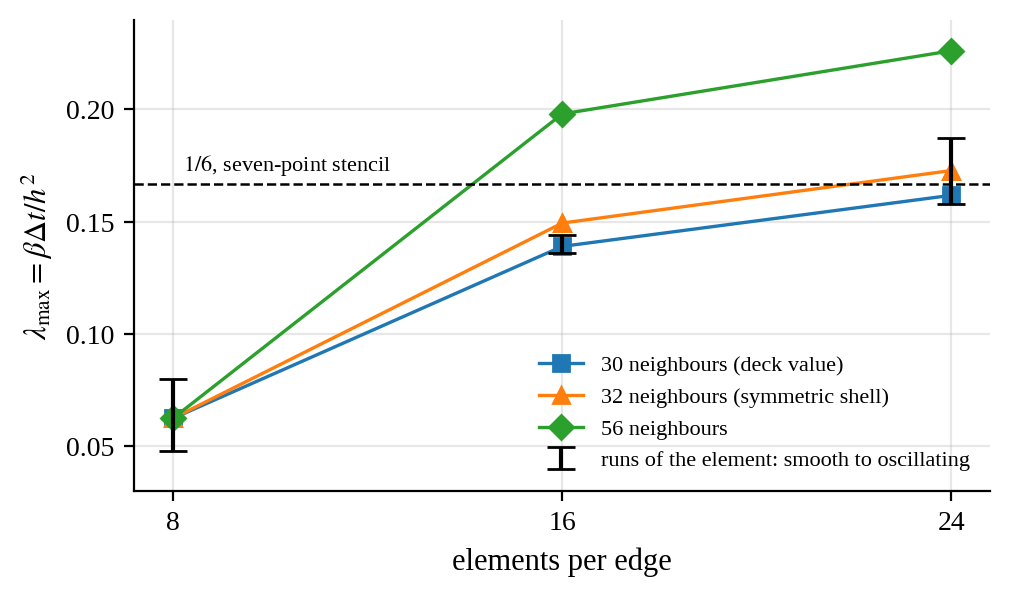
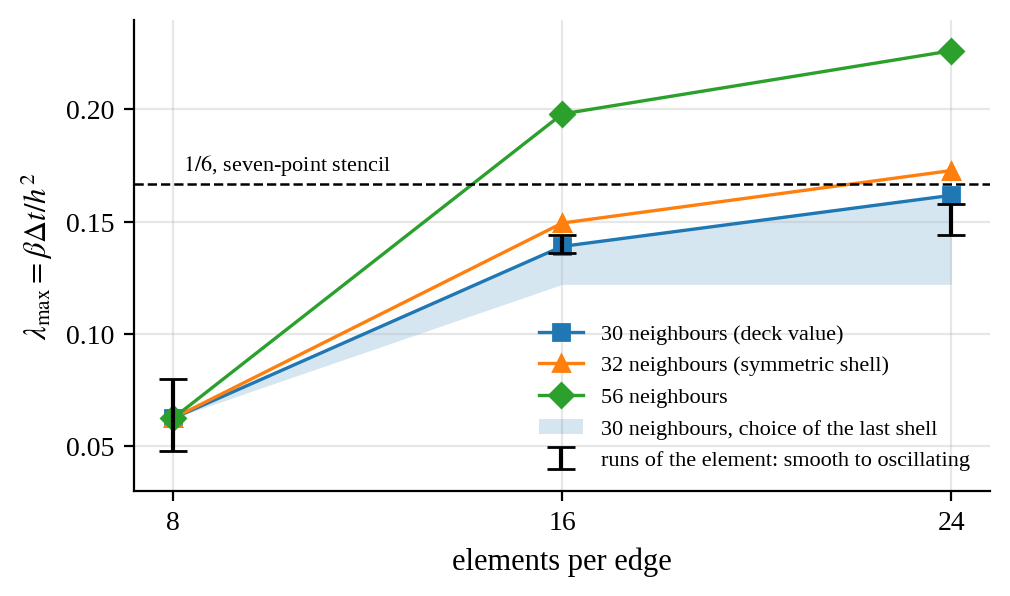
Appendix D: the stability limit depends on the choice of neighbours in the last shell
The 24^3 run at lambda 0.158 stopped before T* = 5, below the computed
0.162. The 30th neighbour lies in a shell of seven equidistant points of
which the fit takes five, chosen by the element's sort order; over 40 random
choices the limit is 0.062 on 8^3, 0.122-0.140 on 16^3 and 0.122-0.162 on
24^3. All runs to T* = 5 lie within this band. nem_stability.py samples the
choice and draws the band; Appendix D, the ch4 time-step paragraph (with the
24^3 run at dt 0.05, lambda 0.144, named), the deck, notes and Q&A updated.
IKMHIWI03 asked for two 24^3 runs to T* = 5 at lambda 0.115 and 0.130.

Changed region(s): [[0.2762, 0.2114, 0.9515, 0.6342], [0.5218, 0.5436, 0.9208, 0.755], [0.2149, 0.6342, 0.2762, 0.6946]]

diff --git a/thesis/chapters/appendix_stability.tex b/thesis/chapters/appendix_stability.tex
@@ -34,7 +34,7 @@ periodic with the period $h$ of the mesh with eight points per cell.
 \paragraph{Spectral radius.} I computed the stencil of the WLS fit on this
 lattice with the deck values and formed the $8\times8$ Bloch symbol
 $\hat L(\mathbf k)$ of $L$ over the Brillouin zone of the cell lattice; $\rho$
-is the largest modulus of its eigenvalues over $\mathbf k$. Two points
+is the largest modulus of its eigenvalues over $\mathbf k$. Three points
 follow from the result (Table~\ref{tab:app-stability}).
 
 First, the limit of the NEM stencil differs from $1/6$ even without the
@@ -45,10 +45,19 @@ Second, the weighting makes the limit depend on the mesh. Because
 $\beta^*$ is a length in millimetres, the weight of a neighbour at distance
 $d$ depends on $d/\beta^*$, and on a coarse mesh the fit is dominated by the
 few nearest points, which gives a stencil with large coefficients and a small
-$\lambda_{\max}$: about $0.06$ on $8^3$ elements, $0.14$ to $0.15$ on $16^3$
-and $0.16$ to $0.17$ on $24^3$ (the two values are for $N=30$ and for the
-symmetric set of $32$ neighbours, between which the distance ordering of the
-element does not decide). The limit approaches the unweighted value as the
+$\lambda_{\max}$: $0.062$ on $8^3$ elements, $0.139$ on $16^3$ and $0.162$ on
+$24^3$ for one choice of $30$ neighbours, $0.149$ and $0.173$ for the symmetric
+set of $32$.
+
+Third, the choice of the neighbours matters. The $30$th neighbour lies in a
+shell of seven points at the distance $h$, of which the fit takes five; which
+five follows from the sort order inside the element and cannot be read off
+the deck. Over $40$ random choices of the five, the limit stays at $0.062$ on
+$8^3$, where the weight of that shell is negligible, but lies between $0.122$
+and $0.140$ on $16^3$ and between $0.122$ and $0.162$ on $24^3$ (shaded in
+Figure~\ref{fig:app-stability}). On the finite cube, with the neighbours taken
+in the order of a $k$-d tree, the limit is $0.143$ on both meshes.
+The limit approaches the unweighted value as the
 mesh is refined. A direct time stepping of the stencil on a periodic block of
 elements grows by the factor $|1-2\lambda/\lambda_{\max}|$ per step, as the
 analysis predicts.
@@ -59,19 +68,19 @@ analysis predicts.
   \caption[Stability limit of the NEM stencil against the mesh]{Stability
     limit of the explicit field update from the Bloch analysis, against the
     number of elements per edge, for $30$, $32$ and $56$ neighbours with
-    $\beta^*=0.2$~mm; bars: the runs of the element, from the largest smooth
-    to the smallest oscillating or stopped $\lambda$
-    (Figure~\ref{fig:ch5-stability}); on $8^3$ and $16^3$ the runs to $T^*=5$.}
+    $\beta^*=0.2$~mm; shaded: the range over the choice of five of the seven
+    equidistant points of the last shell for $30$ neighbours; bars: the runs
+    of the element to $T^*=5$, from the largest smooth to the smallest
+    stopped $\lambda$ (on $24^3$ the lower end is a run to $T^*=1.1$).}
   \label{fig:app-stability}
 \end{figure}
 
-\paragraph{Comparison with the runs.} The runs of the element bracket the
-limit at $0.136<\lambda_{\max}<0.144$ on $16^3$ (runs to $T^*=5$; the runs
-to $T^*=1.1$ give $0.128<\lambda_{\max}<0.160$) and at
-$0.158<\lambda_{\max}<0.187$ on $24^3$ (Figure~\ref{fig:ch5-stability}), in
-agreement with the computed values $0.139$ to $0.149$ and $0.162$ to $0.173$. The unstable mode on these meshes is
-the alternation of sign between neighbouring points, which is what the
-oscillating runs show in $\alpha-1$.
+\paragraph{Comparison with the runs.} Runs to $T^*=5$ bracket the limit at
+$0.048<\lambda_{\max}<0.080$ on $8^3$ and $0.136<\lambda_{\max}<0.144$ on
+$16^3$, and on $24^3$ the run at $0.158$ stops; all three agree with the
+computed values, on $16^3$ and $24^3$ within the band of the neighbour choice.
+The unstable mode is the alternation of sign between neighbouring points,
+which is what the failing runs show in $\alpha-1$.
 
 On $8^3$ the runs at $\beta=0.1$~mm$^2/T^*$ to $T^*=1.1$ stay smooth up to
 $\lambda=0.088$ and stop at $0.096$, above the computed limit of $0.062$. The
@@ -88,27 +97,31 @@ I therefore predicted that longer runs show the limit, and two runs to
 $T^*=5$ confirm it: at $\lambda=0.080$ the elements collapse at $T^*=1.65$,
 at $\lambda=0.048$ the run stays smooth to the end. The limit on $8^3$ lies
 between $0.048$ and $0.080$, in agreement with $0.062$. A run judged stable
-must therefore be long enough for the unstable mode to grow. On $16^3$ two
-runs to $T^*=5$ narrow the bracket to $0.136$ to $0.144$ around the computed
-$0.139$; on $24^3$ the runs to $T^*=1.1$ already agree with the computed limit.
+must therefore be long enough for the unstable mode to grow. The same holds
+on $24^3$, where the run at $\lambda=0.158$ is smooth to $T^*=1.1$ and stops
+before $T^*=5$; marching the seed problem with the finite-cube operator gives
+the same picture, with $\alpha-1$ turning negative at $T^*=1.04$ for
+$\lambda=0.158$ and at $T^*=1.56$ for $0.150$.
 
 \begin{table}[htbp]
   \centering
   \caption[Stability limit of the NEM stencil]{Stability limit
     $\lambda_{\max}=\beta\Delta t/h^2$ of the explicit update with the NEM
     stencil on the integration-point lattice, from the Bloch analysis;
-    $\beta^*=0.2$~mm as in the element, and the unweighted limit. Last row:
-    the largest smooth and the smallest oscillating or stopped $\lambda$ of the
-    runs; $^{a}$runs to $T^*=5$, the others to $T^*=1.1$ (see the text).}
+    $\beta^*=0.2$~mm as in the element, and the unweighted limit; second
+    row: the range over the choice of the neighbours in the last shell. Last
+    row: the largest smooth and the smallest stopped $\lambda$ of the runs to
+    $T^*=5$.}
   \label{tab:app-stability}
   \small
   \begin{tabular}{lcccc}
     \toprule
     & $8^3$ & $16^3$ & $24^3$ & $\beta^*\to\infty$ \\
     \midrule
-    $N=30$ neighbours & $0.062$ & $0.139$ & $0.162$ & $0.185$ \\
+    $N=30$, one choice & $0.062$ & $0.139$ & $0.162$ & $0.185$ \\
+    $N=30$, range over the choice & $0.062$ & $0.122$--$0.140$ & $0.122$--$0.162$ & \\
     $N=32$ neighbours & $0.062$ & $0.149$ & $0.173$ & $0.180$ \\
-    runs: smooth / failing & $0.048$ / $0.080^{a}$ & $0.136$ / $0.144^{a}$ & $0.158$ / $0.187$ & \\
+    runs to $T^*=5$: smooth / stopped & $0.048$ / $0.080$ & $0.136$ / $0.144$ & -- / $0.158$ & \\
     \bottomrule
   \end{tabular}
 \end{table}

diff --git a/ansys_usermat/apdl/nem_stability.py b/ansys_usermat/apdl/nem_stability.py
@@ -78,6 +78,37 @@ def wls_stencil(x0, pts, nneigh, beta_star, threshold, tie="symmetric"):
     return D, c, w
 
 
+def shell_samples(h, nneigh=30, beta_star=0.2, threshold=1e-8, ntrial=40, nk=10, seed=0):
+    """The nneigh-th neighbour lies in a shell of equidistant points (7 at distance h
+    for N = 30), of which the element takes some by its own sort order. Returns the
+    stability limits for ntrial random choices of that subset, with the shell data."""
+    pts = lattice_points(h, 3)
+    x0 = np.array([OFF[0] * h] * 3)
+    d = pts - x0
+    r = np.linalg.norm(d, axis=1)
+    order = np.argsort(r, kind="stable")
+    order = order[r[order] > 1e-12 * max(1.0, r.max())]
+    rk = r[order[nneigh - 1]]
+    shell = order[np.abs(r[order] - rk) < 1e-9 * max(1.0, rk)]
+    inside = order[r[order] < rk * (1 - 1e-9)]
+    k = nneigh - len(inside)
+    rng = np.random.default_rng(seed)
+    lams = []
+    for _ in range(ntrial):
+        sel = np.concatenate([inside, rng.choice(shell, k, replace=False)])
+        D = d[sel]
+        w = np.exp(-0.5 * (4.0 * np.linalg.norm(D, axis=1) / beta_star) ** 2)
+        w[w <= threshold] = 0.0
+        dx, dy, dz = D.T
+        A = np.column_stack([0.5 * dx**2, 0.5 * dy**2, 0.5 * dz**2, dx * dy, dx * dz, dy * dz, dx, dy, dz])
+        Dm = np.linalg.solve(A.T @ (w[:, None] * A), A.T * w)
+        c = Dm[0] + Dm[1] + Dm[2]
+        rho, _ = bloch_radius(h, D, c, nk)
+        lams.append(2.0 / (rho * h * h))
+    return dict(shell_radius=float(rk), shell_size=int(len(shell)), taken=int(k),
+                inside=int(len(inside)), lam=sorted(float(v) for v in lams))
+
+
 def bloch_radius(h, D, c, nk=24):
     """Spectral radius of the NEM Laplacian on the infinite lattice.
     The eight points of a cell are mirror images; the stencil of the reference
@@ -157,7 +188,7 @@ def main(argv=None):
     a = ap.parse_args(argv)
     if a.fig_only:
         out = json.loads(a.json.read_text())
-        draw(out["cases"], a.fig)
+        draw(out["cases"], a.fig, out.get("shells"))
         return
 
     cases = []
@@ -175,6 +206,13 @@ def main(argv=None):
                                   k_worst=(np.array(kw) * h / np.pi).round(3).tolist()))
                 print(f"{n:3d}^3 h={h:.4f} n={len(c):2d} {tie:9s} beta*={beta_star:<6g} "
                       f"lambda_max = {lam:.4f}  (k h/pi = {np.round(np.array(kw)*h/np.pi,2)})")
+    # the choice among the equidistant points of the last shell (N = 30 takes 5 of 7)
+    shells = {}
+    for n, h in meshes:
+        sh = shell_samples(h, 30, 0.2, 1e-8, 40, max(8, a.nk // 2))
+        shells[n] = sh
+        print(f"{n:3d}^3 shell at {sh['shell_radius']:.4f} mm: {sh['taken']} of {sh['shell_size']} taken; "
+              f"lambda_max over {len(sh['lam'])} choices: {sh['lam'][0]:.3f} .. {sh['lam'][-1]:.3f}")
     # reference: 7-point stencil on a simple cubic lattice
     print("7-point finite differences: lambda_max = 1/6 =", 1 / 6)
 
@@ -194,17 +232,18 @@ def main(argv=None):
             print(f"  {n:3d}^3  lambda = {f:.2f} lambda_max = {f*lam:.4f}: growth {g:.4f}")
         checks.append(row)
 
-    out = dict(cases=cases, march=checks,
+    out = dict(cases=cases, march=checks, shells={str(k): v for k, v in shells.items()},
                note="lambda = beta dt / h^2; explicit Euler stable iff lambda <= lambda_max")
     if a.json:
         a.json.write_text(json.dumps(out, indent=1))
         print("wrote", a.json)
     if a.fig:
-        draw(cases, a.fig)
+        draw(cases, a.fig, {str(k): v for k, v in shells.items()})
 
 
-def draw(cases, fig_path):
-    """lambda_max against the mesh for the deck weighting, with the brackets of the runs."""
+def draw(cases, fig_path, shells=None):
+    """lambda_max against the mesh for the deck weighting, with the brackets of the runs;
+    shaded: the range over the choice of the equidistant points of the last shell."""
     import matplotlib
     matplotlib.use("Agg")
     import matplotlib.pyplot as plt
@@ -218,10 +257,15 @@ def draw(cases, fig_path):
         ys = [cs["lam_max"] for cs in cases if cs["nneigh"] == nn and cs["beta_star"] == 0.2]
         if xs:
             ax.plot(xs, ys, marker=mk, label=lab, lw=1.2)
+    if shells:
+        ms = sorted(int(k) for k in shells)
+        lo = [shells[str(m)]["lam"][0] for m in ms]
+        hi = [shells[str(m)]["lam"][-1] for m in ms]
+        ax.fill_between(ms, lo, hi, color="C0", alpha=0.18, lw=0, label="30 neighbours, choice of the last shell")
     ax.axhline(1 / 6, color="k", ls="--", lw=0.9)
     ax.text(8.2, 1 / 6 + 0.003, r"$1/6$, seven-point stencil", fontsize=8, va="bottom")
     # brackets of the element's runs: largest smooth and smallest oscillating lambda
-    runs = {8: (0.048, 0.080), 16: (0.136, 0.144), 24: (0.158, 0.187)}   # 8^3 and 16^3: runs to T* = 5 (Appendix D)
+    runs = {8: (0.048, 0.080), 16: (0.136, 0.144), 24: (0.144, 0.158)}   # runs to T* = 5; 24^3 lower end: smooth to T* = 1.1 (Appendix D)
     first = True
     for m, (lo, hi) in runs.items():
         if hi is None:

diff --git a/speaker_notes_defense.tex b/speaker_notes_defense.tex
@@ -159,13 +159,13 @@ one point three on $16^3$ and zero point seven on $24^3$, so the error is
 measured, not estimated. The seed stress on $24^3$ is two percent below its
 converged value, from a separate hexahedral code on meshes up to $48^3$. And
 the explicit field update is stable only up to $\beta\Delta t/h^2$ of about
-0.06 on the coarse mesh and 0.16 on the fine one, which I derived and
-confirmed by runs; this is stricter than the condition in the literature.
+0.06 on the coarse mesh and 0.12 to 0.16 on the finer ones, which I derived
+and confirmed by runs; this is stricter than the condition in the literature.
 All runs in the thesis are below it.
 \JA 時間は1次で、今の刻みの誤差は約 1 \%。空間は、同じ問題を有限体積で $192^3$ まで解いた参照解と
 比べ、要素の $\alpha$ の誤差は $8^3$ で 4 \%、$16^3$ で 1.3 \%、$24^3$ で 0.7 \%（推定ではなく実測）。
 シードの応力は $24^3$ で収束値より約 2 \% 低い（別の hex8 コードで $48^3$ まで）。陽解法の安定の境目は
-粗いメッシュで 0.06、細かいメッシュで 0.16 と導き、実行で確かめた。文献の条件より厳しい。修論の実行はすべてその下。
+粗いメッシュで 0.06、細かいメッシュで 0.12〜0.16 と導き、実行で確かめた。文献の条件より厳しい。修論の実行はすべてその下。
 
 \slide{Part 3: species composition at the Gauss points}{15:00}
 \EN The third part puts the composition at every Gauss point, for two species
@@ -234,8 +234,8 @@ Short answers; open the slide, say the first sentence, then point to the number.
 \JA 1サブステップでは、要素が $\phi$ を更新し、各 Gauss 点で $\alpha$ と応力を更新し、2菌種なら点モデルを局所の量に合わせて $s\,\Delta t$ だけ進めます。
 
 \slide{Appendix D: stability of the explicit field update}{Q}
-\EN The condition of Rudolf et al.\ is the one-dimensional one, one half. I derived the limit of the NEM stencil on the lattice of the integration points by a Bloch analysis: the weight of the fit has a fixed width in millimetres, so the limit depends on the mesh, about 0.06 on eight cubed, 0.14 to 0.15 on sixteen cubed and 0.16 to 0.17 on twenty-four cubed. Runs on every mesh bracket these values; on eight cubed the run had to be five times longer, because the unstable mode starts very small.
-\JA Rudolf らの条件は1次元のもので 1/2 です。積分点の格子の上で NEM の stencil の限界を Bloch 解析で導きました。重みの幅が mm で固定なので限界はメッシュに依存し、8³ で約 0.06、16³ で 0.14〜0.15、24³ で 0.16〜0.17。どのメッシュでも実行がこの値をはさんでいます。8³ では不安定なモードの初期値が小さいので、5 倍長く回して確かめました。
+\EN The condition of Rudolf et al.\ is the one-dimensional one, one half. I derived the limit of the NEM stencil on the lattice of the integration points by a Bloch analysis: the weight of the fit has a fixed width in millimetres, so the limit depends on the mesh, about 0.06 on eight cubed and 0.12 to 0.16 on the finer meshes; the range comes from which equidistant points enter the thirty neighbours, which the element's sort order decides. Runs to five times the usual end time confirm it; shorter runs do not show the instability, because the unstable mode starts very small.
+\JA Rudolf らの条件は1次元のもので 1/2 です。積分点の格子の上で NEM の stencil の限界を Bloch 解析で導きました。重みの幅が mm で固定なので限界はメッシュに依存し、8³ で約 0.06、細かいメッシュで 0.12〜0.16。幅があるのは、30 近傍に等距離の点のどれが入るかを要素の並べ替えの順が決めるためです。5 倍長く回した実行で確かめました。短い実行では不安定なモードの初期値が小さく、壊れません。
 \hint{Junker 先生向け。修論の付録 D。「観測」ではなく「導出して一致した」と言う。}
 
 \slide{Backup 1: stationarity conditions}{Q}

diff --git a/thesis/chapters/ch4_ansys.tex b/thesis/chapters/ch4_ansys.tex
@@ -309,21 +309,22 @@ least-squares sense, the Neighbored Element Method
 explicitly, which limits the time step. Rudolf et al.~\cite{Rudolf2025NEM}
 give $\Delta t\le h^2/(2\beta)$ for the element size $h$, which is the limit of
 the three-point stencil in one dimension; the seven-point stencil in three
-dimensions has $\lambda=\beta\Delta t/h^2\le1/6$. The runs of this element
-stayed smooth up to $\lambda=0.136$ on $16^3$ and $0.158$ on $24^3$ elements
-and failed at $0.144$ and $0.187$ (Figure~\ref{fig:ch5-stability}; the $16^3$
-pair are runs to $T^*=5$). A
-Bloch analysis of the NEM stencil on the lattice of the integration points
-(Appendix~\ref{app:stability}) gives the limit: it is $0.18$ for the
-unweighted fit, because the lattice is not uniform, and the Gaussian weight
-of the fit, whose width $\beta^*=0.2$~mm is fixed in millimetres, lowers it on
-coarse meshes to $0.14$ to $0.15$ on $16^3$ and $0.16$ to $0.17$ on $24^3$,
-within the brackets of the runs, and to about $0.06$ on $8^3$, where runs
-to $T^*=5$ stay smooth at $\lambda=0.048$ and stop at $0.080$. Runs to
-$T^*=1.1$ are too short to show the limit on $8^3$ (Appendix~\ref{app:stability}). Every run in
-this chapter has $\lambda\le0.128$ on $16^3$ and finer meshes and
-$\lambda\le0.04$ on $8^3$ (the $16^3$ run at $\beta=0.1$ uses
-$\Delta t=0.0125$).
+dimensions has $\lambda=\beta\Delta t/h^2\le1/6$. A Bloch analysis of the
+NEM stencil on the lattice of the integration points
+(Appendix~\ref{app:stability}) gives the limit of this element: $0.18$ for the
+unweighted fit, because the lattice is not uniform, and lower on coarse
+meshes, because the width $\beta^*=0.2$~mm of the Gaussian weight is fixed in
+millimetres. On $16^3$ and $24^3$ the limit also depends on which points of
+the last, equidistant shell enter the fit of $30$ neighbours, and lies
+between $0.122$ and $0.140$ on $16^3$ and between $0.122$ and $0.162$ on
+$24^3$; on $8^3$ it is $0.062$. Runs to $T^*=5$ confirm this: on $8^3$ they
+stay smooth at $\lambda=0.048$ and stop at $0.080$, on $16^3$ at $0.136$ and
+$0.144$, and on $24^3$ the run at $0.158$ stops (Figure~\ref{fig:ch5-stability}).
+Runs to $T^*=1.1$ are too short to show an instability near the limit. The
+results of this chapter use $\lambda\le0.128$ on $16^3$, $\lambda\le0.072$
+on $24^3$ and $\lambda\le0.04$ on $8^3$, below the band; the only exception
+is the $24^3$ run at $\Delta t=0.05$ ($\lambda=0.144$) in the time-step series
+below, whose seed growth follows the first-order trend of the other steps.
 
 \begin{figure}[htbp]
   \centering

diff --git a/slides_defense.tex b/slides_defense.tex
@@ -250,7 +250,7 @@ $\alpha-1$ in the seed & $8.9\times10^{-4}$\\
 \factbox{p2}{Element size $h$ [mm]}{error of $\alpha-1$ against a reference solution: $4.1$ / $1.3$ / $0.7\,\%$ on $8^3$ / $16^3$ / $24^3$; seed stress on $24^3$: $2\,\%$}
 \end{column}
 \begin{column}{0.32\textwidth}
-\factbox{p2}{Stability}{NEM limit derived (Bloch): $0.06$ / $0.14$ / $0.16$ on $8^3$ / $16^3$ / $24^3$, confirmed by runs; Rudolf et al.\ 2025: 1-D value $0.5$}
+\factbox{p2}{Stability}{NEM limit derived (Bloch): $0.06$ on $8^3$, $0.12$--$0.16$ on $16^3$, $24^3$; confirmed by runs; Rudolf et al.\ 2025: 1-D value $0.5$}
 \end{column}
 \end{columns}
 \takeaway{The error of the growth field is measured against a reference solution, the seed stress is $2\,\%$ from its converged value, and every run lies within the derived stability limit.}
@@ -466,10 +466,10 @@ implicit Euler and Newton, $\Delta t=10^{-4}$.\\[4pt]
 \small $\lambda=\beta\Delta t/h^2$; grey: the limit from a Bloch analysis of the NEM
 stencil on the integration-point lattice (thesis, Appendix~D). $h^2/(2\Delta t)\ge\beta$ of
 Rudolf et al.\ 2025 is the one-dimensional limit ($1/2$); the seven-point stencil gives $1/6$;
-the NEM fit with its weight width $\beta^*=0.2$~mm fixed in millimetres gives $0.06$ on $8^3$,
-$0.14$--$0.15$ on $16^3$ and $0.16$--$0.17$ on $24^3$, which the runs bracket. On $8^3$ a run to
-$T^*=1.1$ is too short for the unstable mode to show; runs to $T^*=5$ (black edge) give $0.048$
-smooth and $0.080$ failing.
+the NEM fit with its weight width $\beta^*=0.2$~mm fixed in millimetres gives $0.06$ on $8^3$
+and, depending on which equidistant points enter the 30 neighbours, $0.12$--$0.14$ on $16^3$ and
+$0.12$--$0.16$ on $24^3$. Runs to $T^*=5$ (black edge) confirm it; runs to $T^*=1.1$ are too short
+to show an instability near the limit.
 \end{frame}
 
 % ========================================================

diff --git a/slides_qa_ja.tex b/slides_qa_ja.tex
@@ -115,10 +115,11 @@ FEM の記述が、1菌種と2菌種でつながった。}
 \begin{frame}[shrink=3]{Junker 先生（3）：NEM と時間刻み}
 \small\Q{場の更新は陽解法。時間刻みの条件は}
 \A{Rudolf et al.\ 2025 の $\Delta t\le h^2/(2\beta)$ は\textbf{1次元の条件}（$\lambda\le1/2$）。
-積分点の格子で NEM の stencil を Bloch 解析すると、限界はメッシュに依存：\textbf{8$^3$ で 0.06、16$^3$ で 0.14〜0.15、24$^3$ で 0.16〜0.17}（付録 D）。実行はどのメッシュでもこれをはさむ（8$^3$ は $T^*=5$ まで回して 0.048 滑らか、0.080 停止）。}
+積分点の格子で NEM の stencil を Bloch 解析すると、限界はメッシュに依存：\textbf{8$^3$ で 0.06、16$^3$・24$^3$ で 0.12〜0.16}（付録 D）。幅は 30 近傍の最後の等距離の殻のどの点を取るかによる。$T^*=5$ までの実行で確かめた。}
 \begin{itemize}\footnotesize
   \item 理由：重み $\exp[-\frac12(4d/\beta^*)^2]$ の幅 $\beta^*=0.2$\,mm が固定なので、粗いメッシュほど近い点だけで当てはめ、係数が大きくなる
   \item 重みなしの極限は 0.18（格子が不等間隔なので 7点差分の 1/6 と同じにならない）
+  \item 30 番目の近傍は距離 $h$ の 7 点の殻にあり、そのうち 5 点を取る。どれを取るかは要素の並べ替えの順で、デッキからは分からない
   \item 「最後まで走った」は安定の判定にならない（0.160 は止まらずに振動した。8$^3$ では $T^*=1.1$ では見えず、$T^*=5$ で壊れた）
 \end{itemize}
 \vspace{3pt}

diff --git a/ansys_usermat/apdl/RUN_WP3_IKMHIWI03.md b/ansys_usermat/apdl/RUN_WP3_IKMHIWI03.md
@@ -349,3 +349,20 @@ f = 1e−3、ν = 0.49、三隅の拘束）で力学を解いた（`results/2026
 ```
 
 指示の 6 番（`wp3e_n16_b01_dt00125`）は、同じ条件の `w16_1sp_b01_dt00125`（表面を直した exe、`2026-10-07_surface_fix/`）があるので省いた。10 本、見込み約 30 時間。
+
+### 24³ の T* = 5（10月10日、クラウド）：限界は「30 近傍の最後の殻をどう取るか」で幅がある
+
+週末の列の 24³・λ 0.158 と 0.164（T* = 5）は両方止まった。0.158 は T* = 1.1 では滑らかだった。
+原因を調べた（`nem_stability.py` の `shell_samples`、`nem_finite_cube.py`）：
+
+- 30 番目の近傍は、距離 h の **7 点の殻の中**にある（25 点がそれより近く、殻から 5 点を取る）。
+  どの 5 点を取るかは要素の並べ替えの順で決まり、こちらからは分からない。
+- 取り方で限界が変わる（40 通りの無作為な取り方）：8³ 0.062（変わらない）、16³ 0.122〜0.140、24³ 0.122〜0.162。
+  付録 D に書いた 0.139 / 0.162 は「配列順で最初の 5 点」という一つの取り方で、上限に近い値だった。
+- 有限の立方体（kd-tree の順で 30 点）では 16³ 0.143、24³ 0.143。
+- ANSYS：16³ 0.136 滑らか / 0.144 停止（T* = 5）、24³ 0.158 停止（T* = 5）。どれも幅の中か下端。
+- 修論の 24³・Δt 0.05 は λ 0.144 で幅の中。T* = 1.1 では 1 次の系列に乗っているので結果には効いていないが、
+  本文で「下端 0.122 より上の 1 本」と断る。
+
+**依頼（月曜、各 4 時間、E3 の前でよい）：** 24³・β 0.02 を T* = 5 で 2 本、`wp3e_n24_b002_dt045_T5`（Δt 0.045、λ 0.130）と
+`wp3e_n24_b002_dt040_T5`（Δt 0.040、λ 0.115）。下端 0.122 を挟む。

diff --git a/ansys_usermat/apdl/IKMHIWI03_TO_CLOUD.ja.md b/ansys_usermat/apdl/IKMHIWI03_TO_CLOUD.ja.md
@@ -213,3 +213,12 @@ JSON を `results/2026-10-wp3_fix/` に push。
 3本目（`wp3e_n16_b002_dt04_T5`）はこちらの計算違い：β 0.02・Δt 0.04 は λ = 0.051 で、0.128 ではない
 （0.128 は β 0.05・Δt 0.04）。害はない（λ 0.051 で滑らか）。「16³ は 0.128 まで滑らか」の T* = 5 での確認は
 要らなくなった（0.136 が滑らかだったので含まれる）。列はそのまま。
+
+## クラウドから（10月10日）：24³ の T* = 5 が両方止まった件
+
+受け取った（9 本目まで）。24³・λ 0.158 が T* = 5 で止まったのは、限界が付録 D の 0.162 より低いため。
+調べると、30 近傍の最後の 7 点の殻からどの 5 点を取るかで限界が 24³ では 0.122〜0.162 と幅を持つ
+（`RUN_WP3_IKMHIWI03.md` の最後の節）。付録 D は幅で書き直す。
+
+依頼（月曜、各約 4 時間、E3 の前）：24³・β 0.02・T* = 5 を 2 本、`wp3e_n24_b002_dt045_T5`（λ 0.130）と
+`wp3e_n24_b002_dt040_T5`（λ 0.115）。これで 24³ の下端を挟める。登録は `wp3_wkd` の 10 本目が終わってから。
